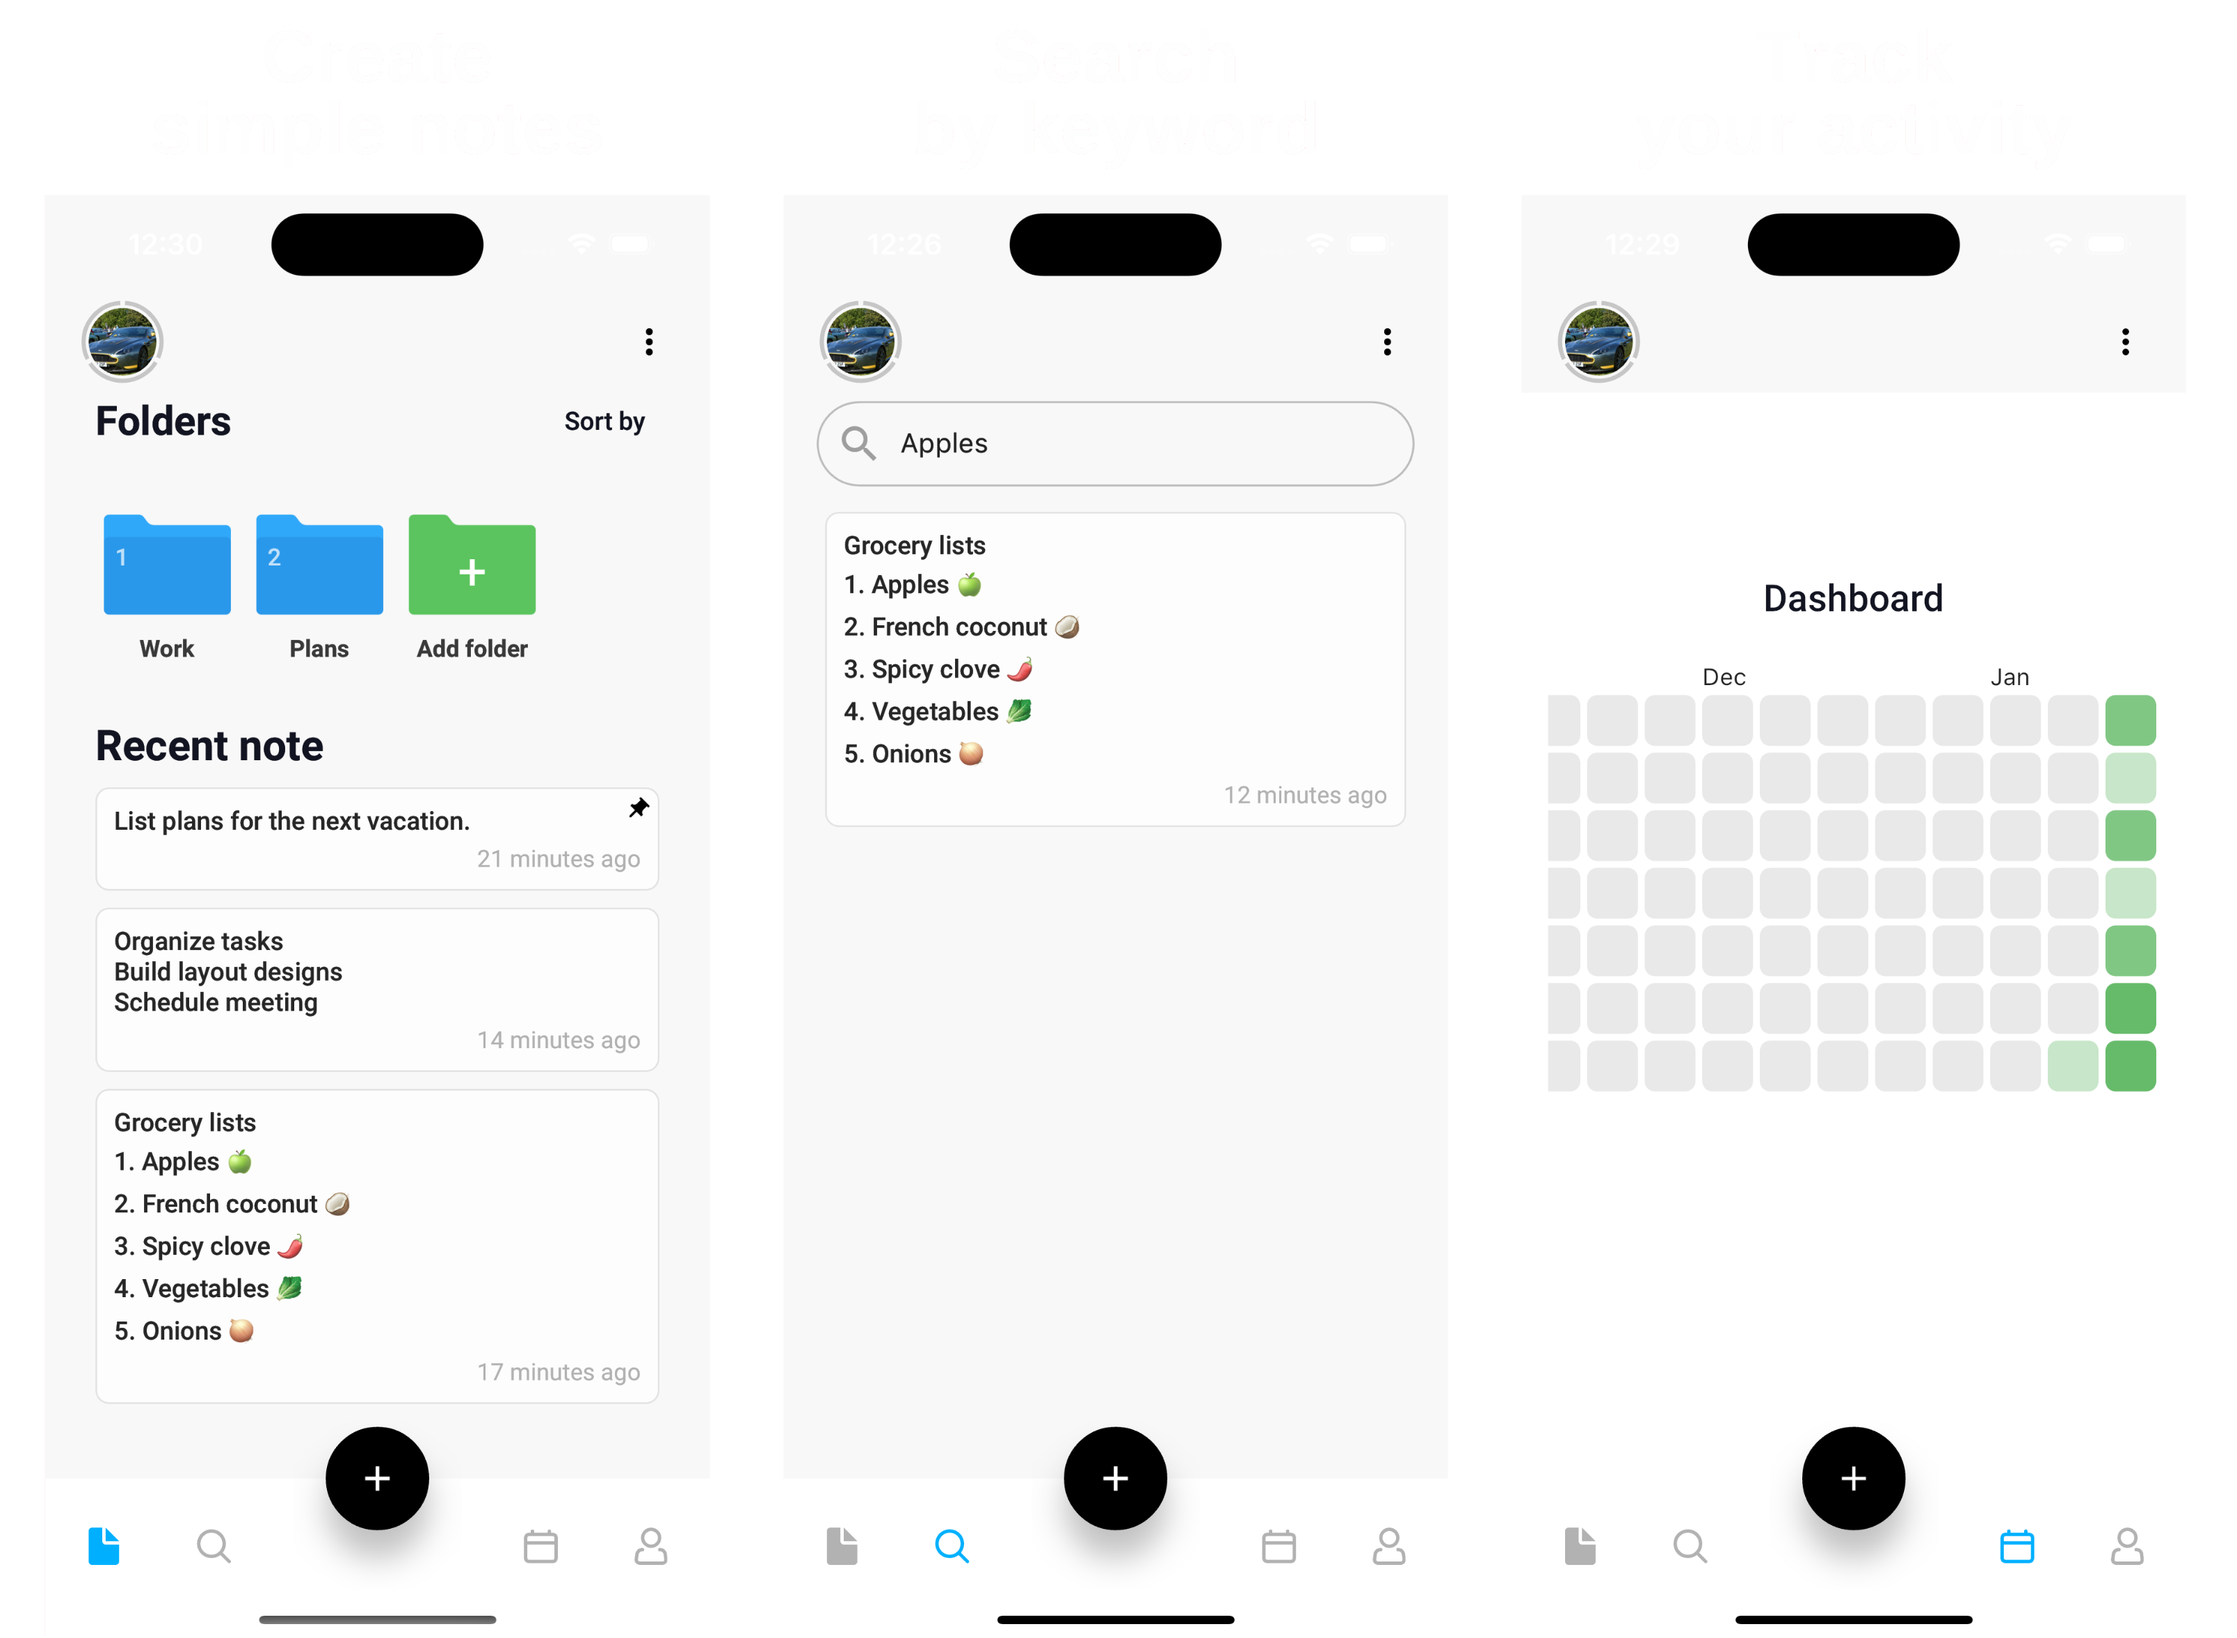
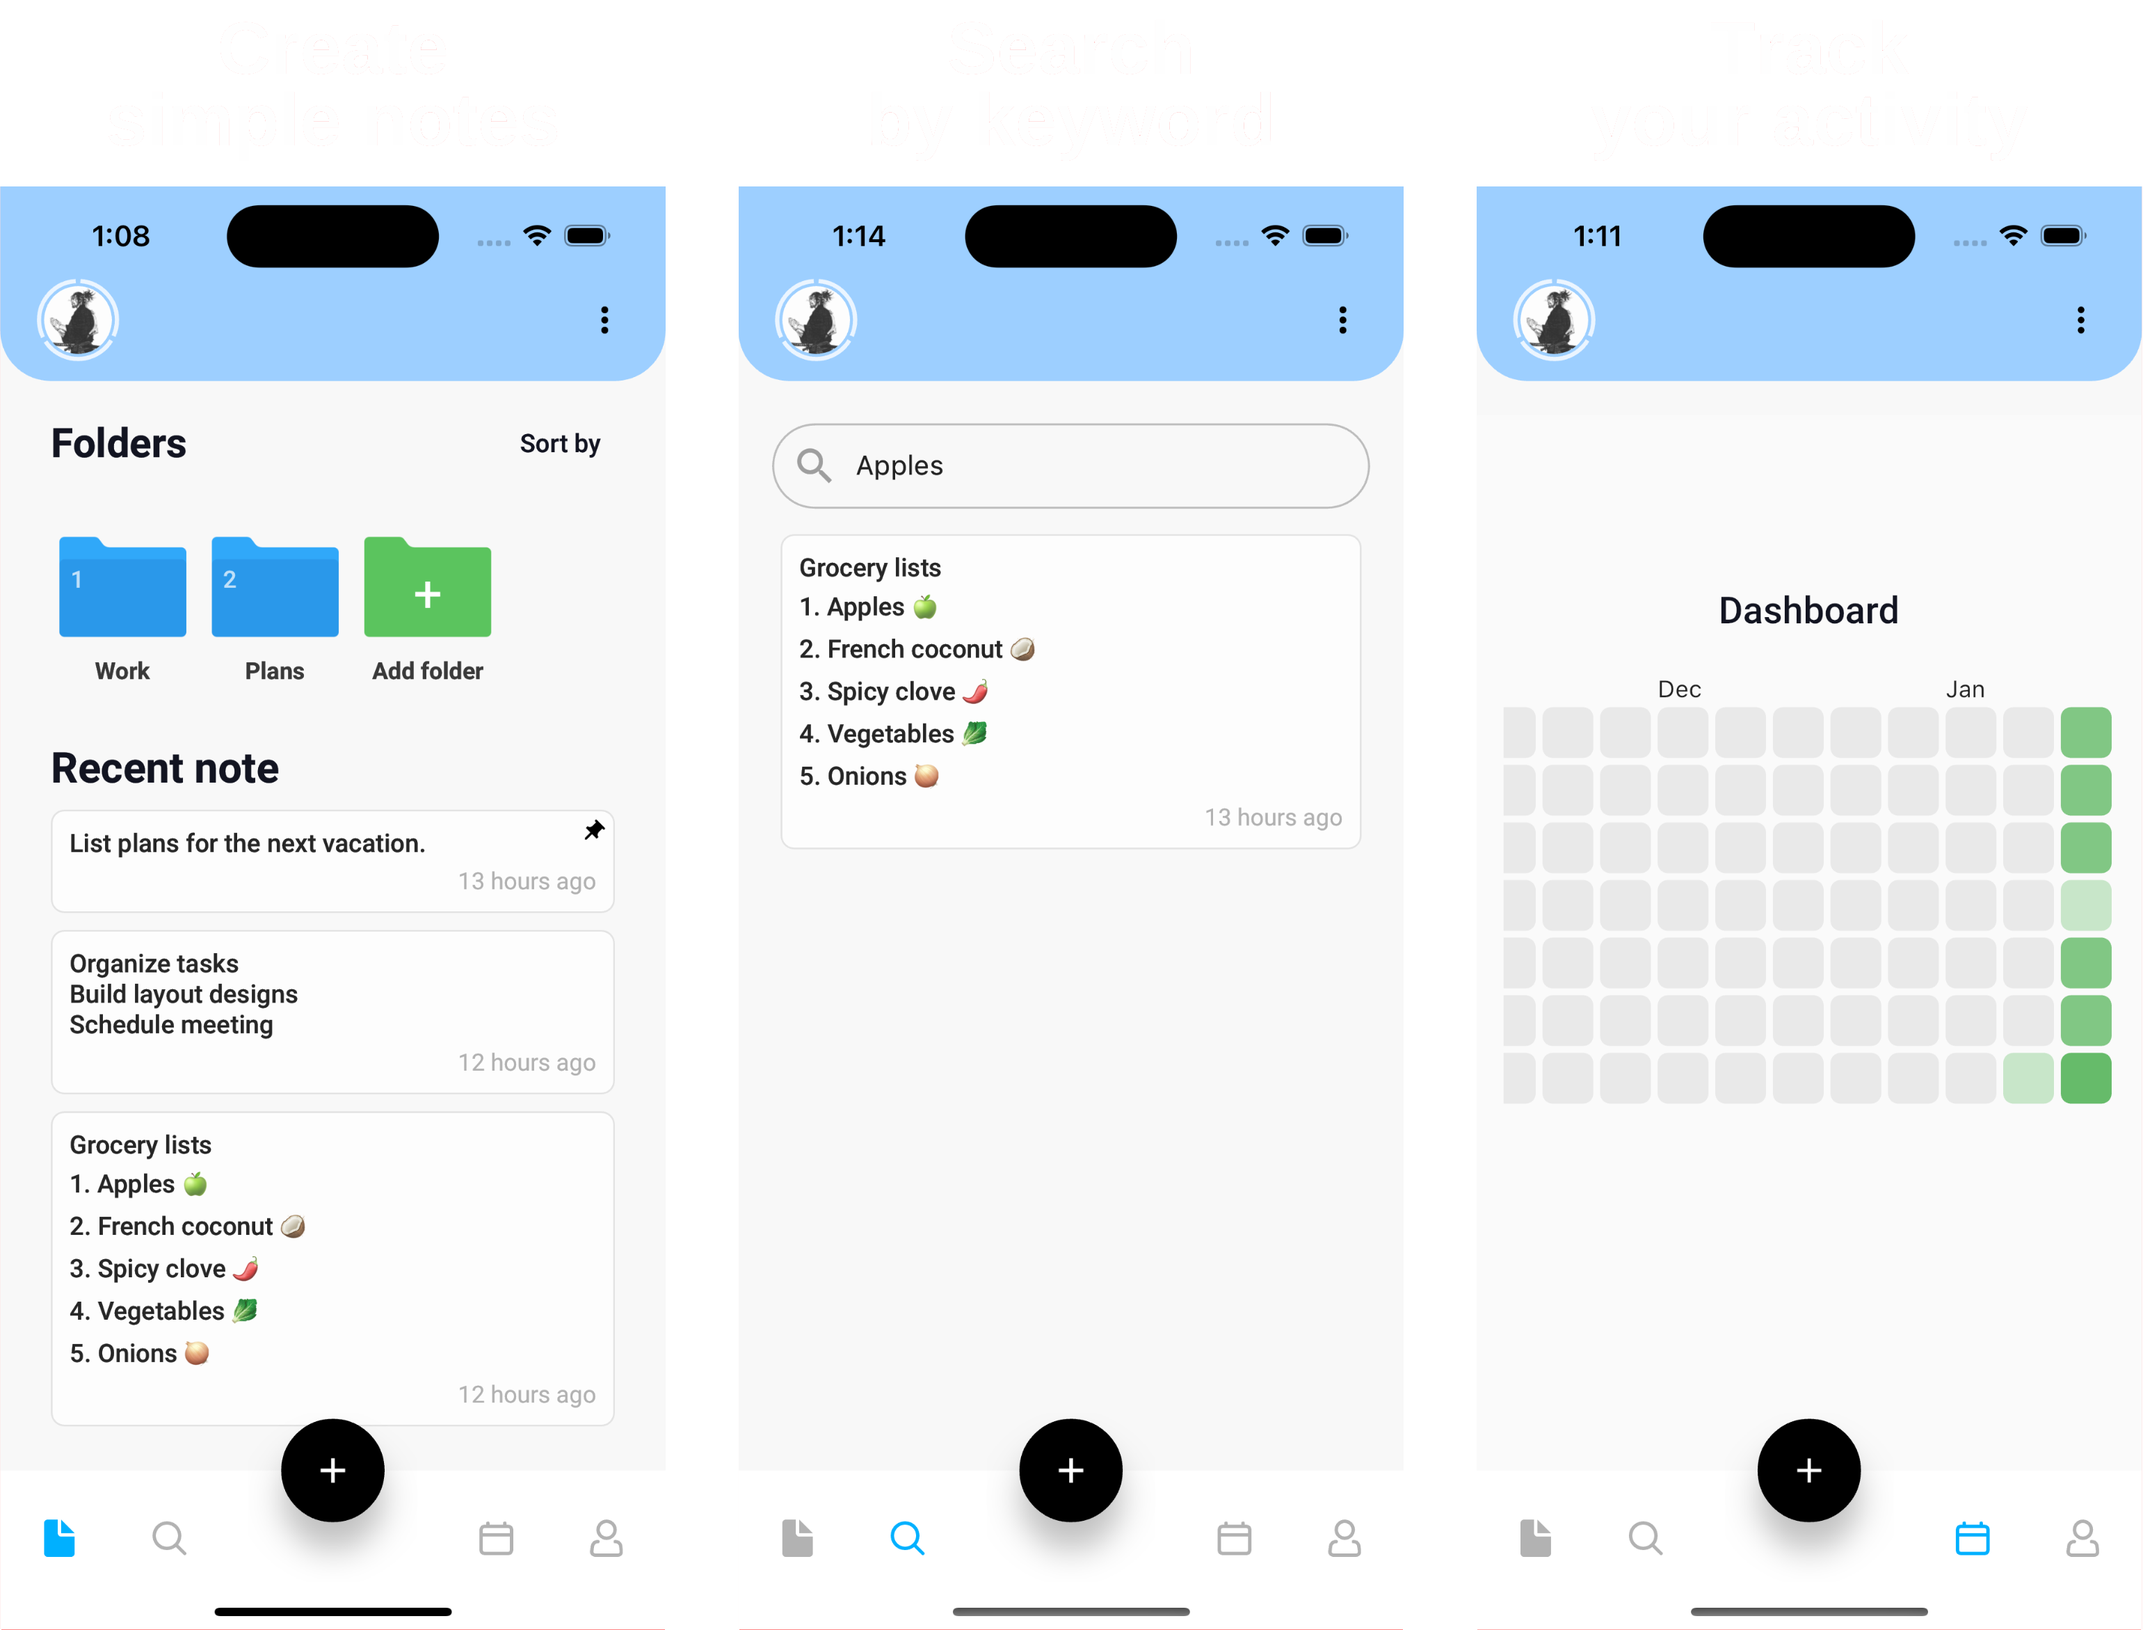
small redesign

diff --git a/lib/widgets/app_appbar.dart b/lib/widgets/app_appbar.dart
@@ -1,27 +1,57 @@
 import 'package:flutter/material.dart';
+import 'package:noteapp/utils/colors.dart';
 
 class AppAppbar extends StatelessWidget implements PreferredSizeWidget {
-  const AppAppbar({Key? key, this.backgroundColor, this.title, this.actions, this.leading}) : super(key: key);
+  const AppAppbar({Key? key, this.backgroundColor, this.content, this.leading}) : super(key: key);
   final Color? backgroundColor;
-  final Widget? title;
-  final List<Widget>? actions;
+  final Widget? content;
 
   final Widget? leading;
 
   @override
   Widget build(BuildContext context) {
-    return AppBar(
-      automaticallyImplyLeading: false,
-      leading: leading,
-      actions: actions,
-      title: title,
-      titleSpacing: 0,
-      leadingWidth: leading == null ? 0 : 56,
-      elevation: 0,
-      backgroundColor: backgroundColor ?? Colors.transparent,
+    return PreferredSize(
+      preferredSize: preferredSize,
+      child: Column(
+        children: [
+          Expanded(
+            child: AnimatedContainer(
+              duration: const Duration(milliseconds: 300),
+              decoration: BoxDecoration(
+                color: backgroundColor ?? AppColors.appBar,
+                borderRadius: const BorderRadius.only(
+                  bottomLeft: Radius.circular(30),
+                  bottomRight: Radius.circular(30),
+                ),
+              ),
+              child: Stack(
+                children: [
+                  Column(
+                    mainAxisAlignment: MainAxisAlignment.end,
+                    crossAxisAlignment: CrossAxisAlignment.start,
+                    children: [
+                      const SizedBox(height: 20),
+                      Center(
+                        child: content ?? const SizedBox.shrink(),
+                      ),
+                      SizedBox(height: leading == null ? 0 : 20),
+                    ],
+                  ),
+                  Positioned(
+                    left: 0,
+                    top: MediaQuery.of(context).padding.top,
+                    child: leading ?? const SizedBox.shrink(),
+                  ),
+                ],
+              ),
+            ),
+          ),
+          const SizedBox(height: 20),
+        ],
+      ),
     );
   }
 
   @override
-  Size get preferredSize => const Size.fromHeight(kToolbarHeight + 2);
+  Size get preferredSize => const Size.fromHeight(kToolbarHeight + 20);
 }

diff --git a/lib/pages/get_started_page.dart b/lib/pages/get_started_page.dart
@@ -28,7 +28,7 @@ class _GetStartedPageState extends State<GetStartedPage> {
   @override
   Widget build(BuildContext context) {
     return Scaffold(
-      backgroundColor: const Color.fromARGB(255, 248, 248, 238),
+      backgroundColor: const Color(0xFFF8F8EE),
       appBar: GetStartedAppBar(
         pageIndex: pageIndex,
         controller: controller,
@@ -226,7 +226,7 @@ class WelcomeScreen extends StatelessWidget {
                 Image.asset(
                   "assets/images/welcome.png",
                   colorBlendMode: BlendMode.darken,
-                  color: const Color.fromARGB(255, 248, 248, 237),
+                  color: const Color(0xFFF8F8ED),
                 ),
               ],
             ),
@@ -359,7 +359,7 @@ class GetStartedAppBar extends StatelessWidget implements PreferredSizeWidget {
                       "1",
                       style: GoogleFonts.montserrat(
                           fontWeight: FontWeight.w600,
-                          color: pageIndex.pageIndex == 0 ? Colors.black : const Color.fromARGB(255, 170, 173, 224),
+                          color: pageIndex.pageIndex == 0 ? Colors.black : AppColors.pageIndicatorInactive,
                           fontSize: 16),
                     ),
                   ),
@@ -375,7 +375,7 @@ class GetStartedAppBar extends StatelessWidget implements PreferredSizeWidget {
                       "2",
                       style: GoogleFonts.montserrat(
                           fontWeight: FontWeight.w600,
-                          color: pageIndex.pageIndex == 1 ? Colors.black : const Color.fromARGB(255, 170, 173, 224),
+                          color: pageIndex.pageIndex == 1 ? Colors.black : AppColors.pageIndicatorInactive,
                           fontSize: 16),
                     ),
                   ),
@@ -391,7 +391,7 @@ class GetStartedAppBar extends StatelessWidget implements PreferredSizeWidget {
                       "3",
                       style: GoogleFonts.montserrat(
                           fontWeight: FontWeight.w600,
-                          color: pageIndex.pageIndex == 2 ? Colors.black : const Color.fromARGB(255, 170, 173, 224),
+                          color: pageIndex.pageIndex == 2 ? Colors.black : AppColors.pageIndicatorInactive,
                           fontSize: 16),
                     ),
                   ),

diff --git a/lib/pages/home_page.dart b/lib/pages/home_page.dart
@@ -56,8 +56,8 @@ class _HomePageState extends State<HomePage> {
       bottomNavigationBar: BottomNavBar(pageController: pageController),
       scaffoldKey: _scaffoldKey,
       appBar: AppAppbar(
-        backgroundColor: Colors.transparent,
-        title: Row(
+        backgroundColor: context.watch<PageCubit>().state == 3 ? ThemeData().scaffoldBackgroundColor : null,
+        content: Row(
           children: [
             const SizedBox(width: 20),
             BlocBuilder<PageCubit, int>(
@@ -76,7 +76,7 @@ class _HomePageState extends State<HomePage> {
                         strokeWidth: 2.5,
                         dashPattern: const [34.45, 3, 44, 3, 45.7, 3],
                         borderType: BorderType.Circle,
-                        color: Colors.black.withOpacity(0.2),
+                        color: Colors.white.withOpacity(0.8),
                         padding: const EdgeInsets.all(3),
                         child: BlocBuilder<AuthCubit, AuthState>(
                           buildWhen: (previous, current) => previous.avatarUrl != current.avatarUrl,
@@ -84,7 +84,7 @@ class _HomePageState extends State<HomePage> {
                             return state.avatarUrl == ""
                                 ? const CircleAvatar(
                                     radius: 20,
-                                    backgroundColor: Colors.grey,
+                                    backgroundColor: Colors.blueAccent,
                                     child: Icon(
                                       Icons.person,
                                       color: Colors.white,

diff --git a/lib/main.dart b/lib/main.dart
@@ -18,7 +18,7 @@ import 'package:noteapp/cubit/notes_bloc/notes_repository.dart';
 import 'package:noteapp/cubit/page_cubit.dart';
 import 'package:noteapp/pages/auth/login_page.dart';
 import 'package:noteapp/pages/auth/register_page.dart';
-import 'package:noteapp/pages/edit_note.dart';
+import 'package:noteapp/pages/edit_note_page.dart';
 import 'package:noteapp/pages/folder_page.dart';
 import 'package:noteapp/pages/home_page.dart';
 import 'package:noteapp/pages/settings_page.dart';
@@ -115,7 +115,6 @@ class MyApp extends StatelessWidget {
         BlocProvider(create: (context) => DashboardCubit(repository: DashboardRepository())),
       ],
       child: MaterialApp.router(
-        theme: ThemeData(scaffoldBackgroundColor: Colors.white),
         builder: (context, child) {
           notesCubit = BlocProvider.of<NotesCubit>(context);
           dashboardCubit = BlocProvider.of<DashboardCubit>(context);

diff --git a/lib/pages/edit_note_page.dart b/lib/pages/edit_note_page.dart
@@ -331,11 +331,11 @@ class _EditNoteState extends State<EditNote> {
                   alignment: Alignment.center,
                   children: [
                     CircularProgressIndicator(
-                      color: Color.fromARGB(255, 87, 157, 255),
+                      color: Color(0xFF579DFF),
                       strokeWidth: 3,
                       value: 1,
                     ),
-                    CircularProgressIndicator(color: Color.fromARGB(255, 194, 217, 255), strokeWidth: 3),
+                    CircularProgressIndicator(color: Color(0xFFC2D9FF), strokeWidth: 3),
                   ],
                 ),
               )

diff --git a/lib/pages/notes_page.dart b/lib/pages/notes_page.dart
@@ -178,8 +178,7 @@ class _BuildNotesPageState extends State<BuildNotesPage> {
                   child: Container(
                     padding: const EdgeInsets.all(5),
                     decoration: BoxDecoration(
-                        color: const Color.fromARGB(255, 255, 109, 106).withOpacity(candidateData.isNotEmpty ? 1 : 0.7),
-                        shape: BoxShape.circle),
+                        color: const Color(0xFFFF6D6A).withOpacity(candidateData.isNotEmpty ? 1 : 0.7), shape: BoxShape.circle),
                     child: const Icon(
                       Icons.delete_outline_outlined,
                       size: 40,

diff --git a/lib/utils/colors.dart b/lib/utils/colors.dart
@@ -10,4 +10,6 @@ class AppColors {
   static const Color text = Color.fromARGB(255, 18, 20, 33);
   static const Color loginButton = Color.fromARGB(255, 142, 243, 147);
   static const Color registerButton = Color.fromARGB(255, 99, 205, 255);
+  static const Color pageIndicatorInactive = Color(0xFFAAADE0);
+  static const Color appBar = Color(0xFF9DCFFF);
 }

diff --git a/lib/widgets/profile_card.dart b/lib/widgets/profile_card.dart
@@ -23,7 +23,7 @@ class ProfileCard extends StatelessWidget {
                 children: [
                   Icon(
                     icon,
-                    color: Colors.grey.shade600,
+                    color: const Color(0xFF4196E4),
                   ),
                   const SizedBox(width: 10),
                   AppText(

diff --git a/lib/pages/settings_page.dart b/lib/pages/settings_page.dart
@@ -14,8 +14,9 @@ class SettingsPage extends StatelessWidget {
   Widget build(BuildContext context) {
     return AppScaffold(
       appBar: const AppAppbar(
-        title: AppText(
+        content: AppText(
           "Settings",
+          size: 20,
           fw: FontWeight.w500,
         ),
         leading: AppBackButton(),

diff --git a/lib/pages/folder_page.dart b/lib/pages/folder_page.dart
@@ -38,7 +38,7 @@ class _FolderPageState extends State<FolderPage> {
   Widget build(BuildContext context) {
     return AppScaffold(
       appBar: AppAppbar(
-        title: Row(
+        content: Row(
           children: [
             const SizedBox(width: 5),
             const AppBackButton(),

diff --git a/lib/pages/dashboard_page.dart b/lib/pages/dashboard_page.dart
@@ -13,6 +13,7 @@ class DashboardPage extends StatelessWidget {
   @override
   Widget build(BuildContext context) {
     return AppScaffold(
+      bgColor: ThemeData().scaffoldBackgroundColor,
       body: Padding(
         padding: const EdgeInsets.only(top: 12.0),
         child: Column(

diff --git a/README.md b/README.md
@@ -1,7 +1,20 @@
 # Note app
 
-Simple note editor in [Flutter](https://flutter.dev) using Cubit, Go Router, Firebase services
+Note editor made with [Flutter](https://flutter.dev) using Cubit, Go Router, Firebase services
+
+## Features
+
+* Note search
+* Dashboard
+* Folders
 
 ## Screenshots
 
-![App Screenshot](https://github.com/Andreogit/Note-app/blob/demo.png?raw=true)
+![App Screenshot](https://github.com/Andreogit/Note-app/blob/main/demo.png?raw=true)
+
+![App Screenshot](https://github.com/Andreogit/Note-app/blob/main/demo2.png?raw=true)
+
+#### Fonts used: 
+* montserrat
+* roboto
+* red hat display
